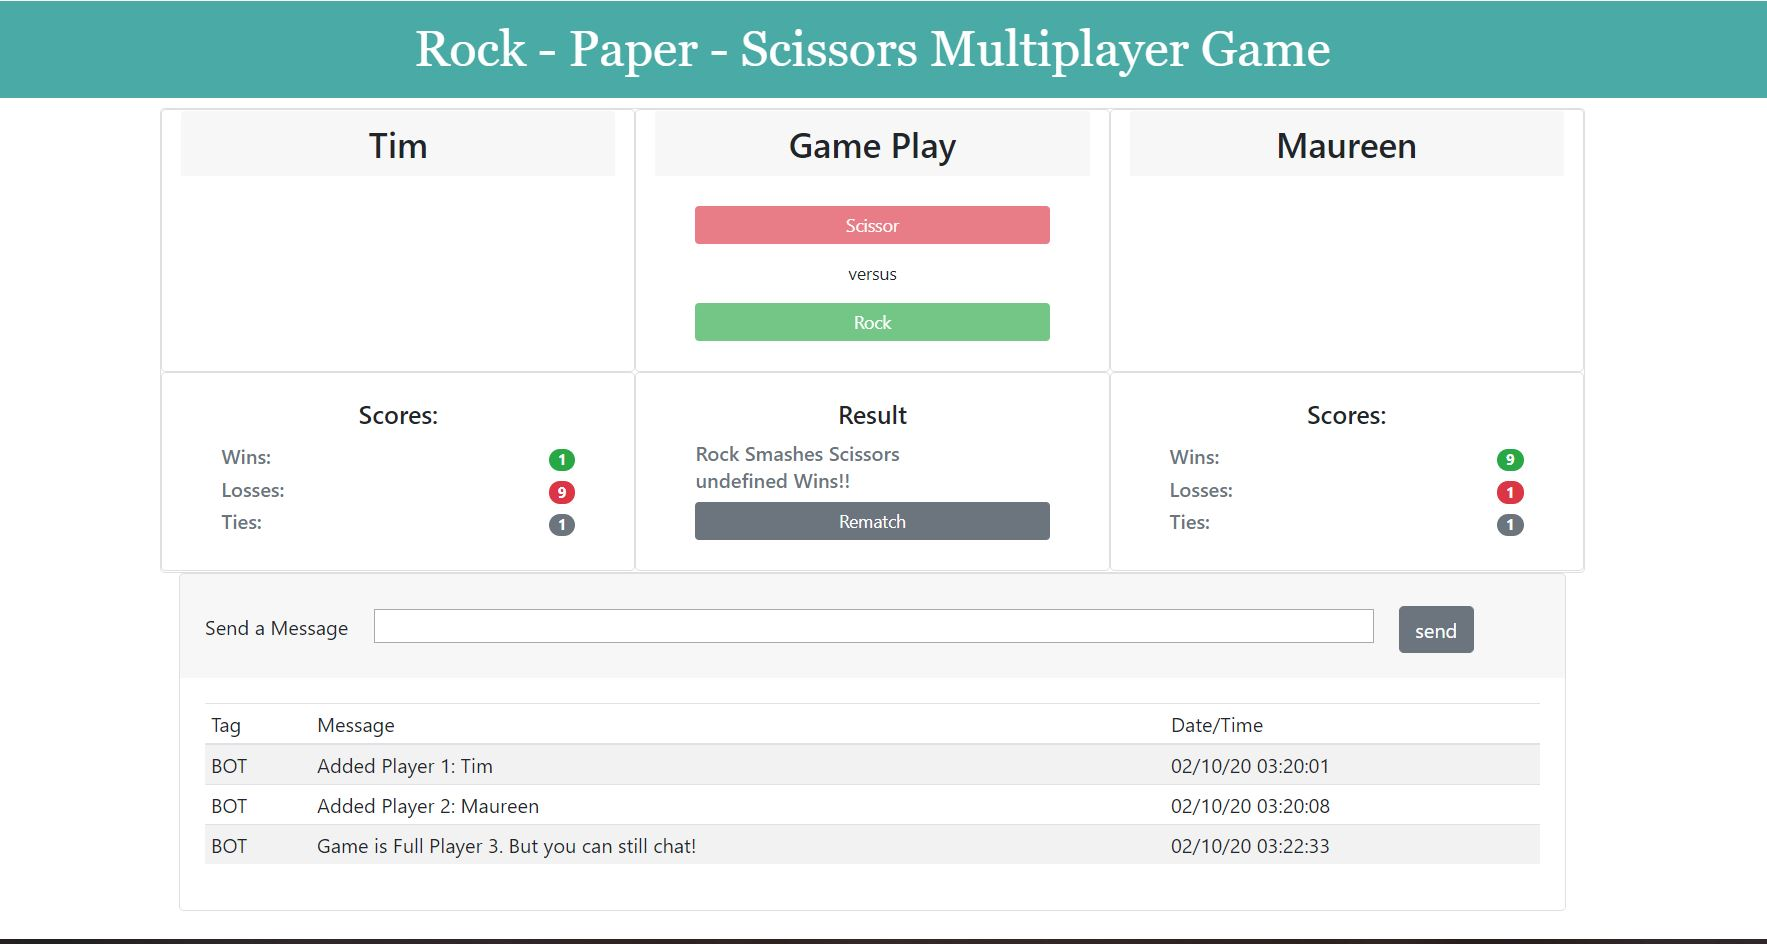
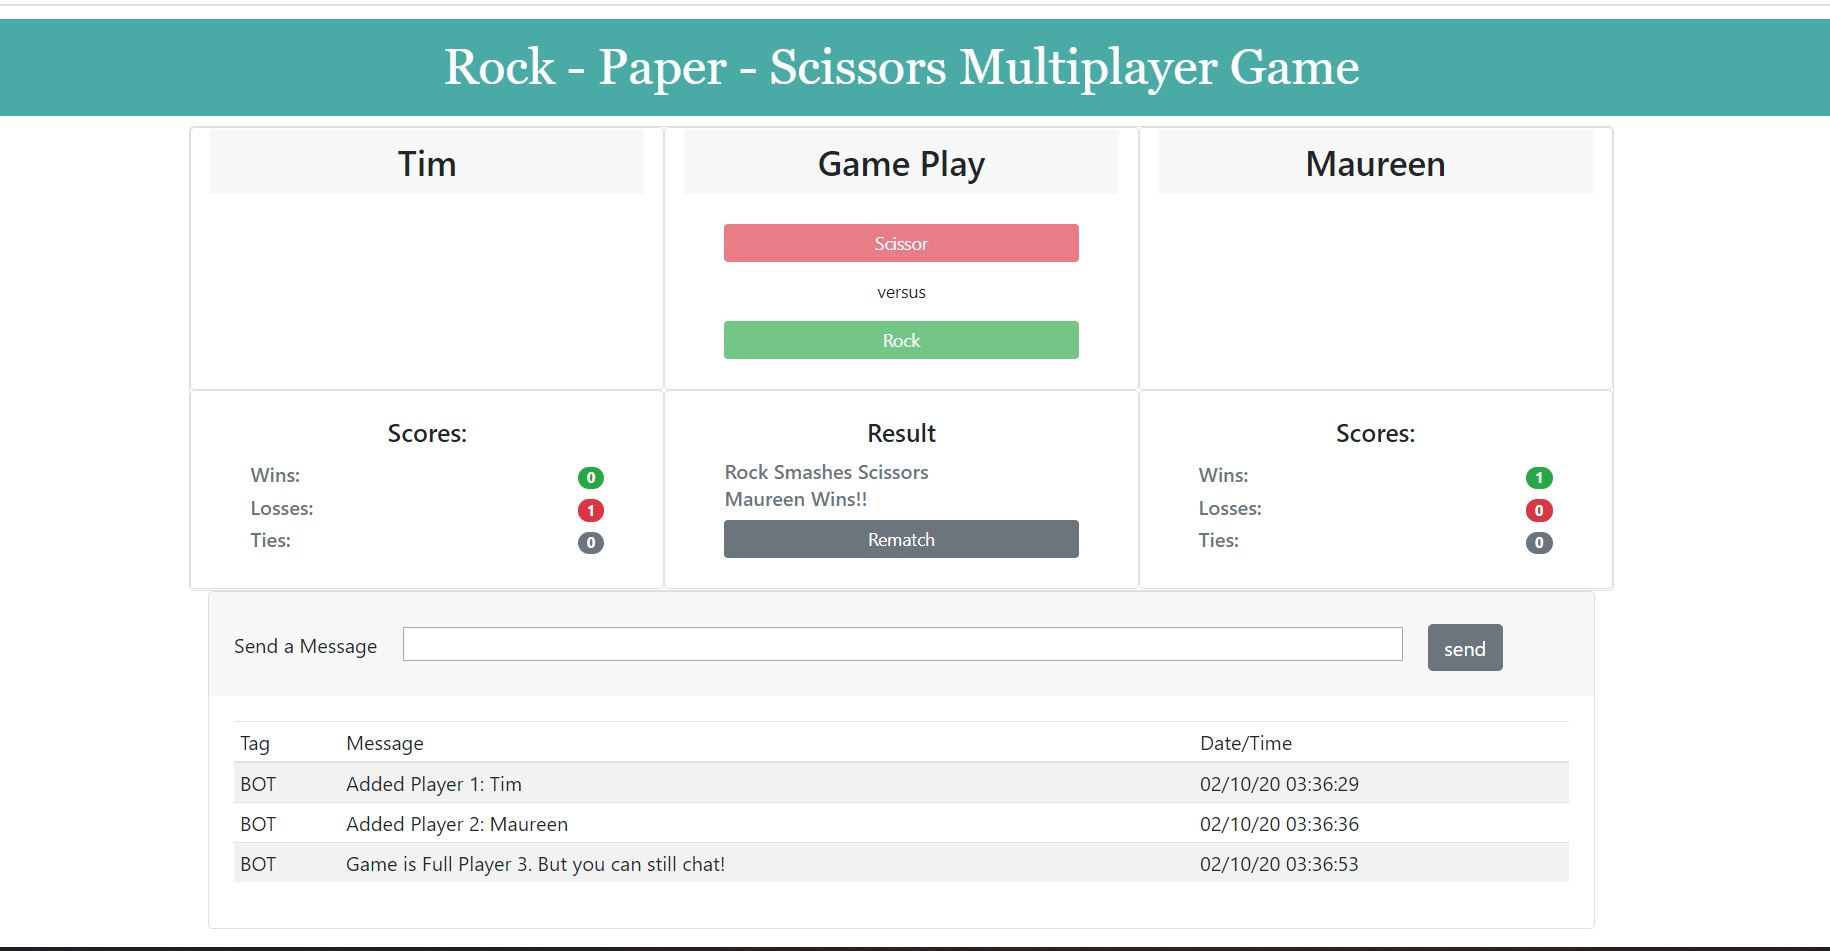
corrected bystander viewing REMATCH button.  Corrected some items in README

diff --git a/assets/javascript/rpsgame.js b/assets/javascript/rpsgame.js
@@ -195,6 +195,7 @@ $("#rematch").on("click", function() {
 //  firebase event listener to be triggerred on the 'value' updates of the /rps folder
 // --------------------------------------------------------------------------------------
 dataRPS.on("value", function(snapshot) {
+    console.log("Executing based on the VALUE listener")
 
     // verify that there is an actual snapshot to be able to get values from
     var exists = (snapshot.val() !== null);
@@ -247,7 +248,7 @@ dataRPS.on("value", function(snapshot) {
     } 
     // this session is just a bystander 
     else {
-        
+
         // hide the play1 section of choices
         $("#play1-game-choice").hide();
 
@@ -300,6 +301,7 @@ dataRPS.on("value", function(snapshot) {
 //  firebase event listener to be triggerred on the 'child_added' updates of the /rps folder
 // --------------------------------------------------------------------------------------
 dataRPS.on("child_added", function(snapshot) {
+    console.log("Executing based on the CHILD_ADDED listener")
 
     // determine which child was added to proceed
     if (snapshot.key === 'play1Hand') {
@@ -670,8 +672,10 @@ function playGame() {
         }
     };
 
-    // show the button to allow a rematch to be requested.
-    $("#rematch").show();
+    if (plyrName === play1Name || plyrName === play2Name) {
+        // show the button to allow a rematch to be requested.
+        $("#rematch").show();
+    };
 
     // show the current results
     $("#story-line").show();

diff --git a/README.md b/README.md
@@ -37,7 +37,7 @@ Multiplayer **Rock** - **Paper** - **Scissors** Game
 
         ![Image of Player 1 Select Page Screenshot](/assets/images/Player1_Select_Screen.jpg)
 
-        ![Image of Player 2 Waiting to Select Page Screenshot](/assets/images/Player2_Waiting_to_Select_Screen.jpg)
+        ![Image of Player 2 Waiting to Select Page Screenshot](/assets/images/Player2_Waiting-to-Select_Screen.jpg)
 
     1. When both players have made a selection, a Winner and Loser are determined.
         1. Rock smashes Scissors
